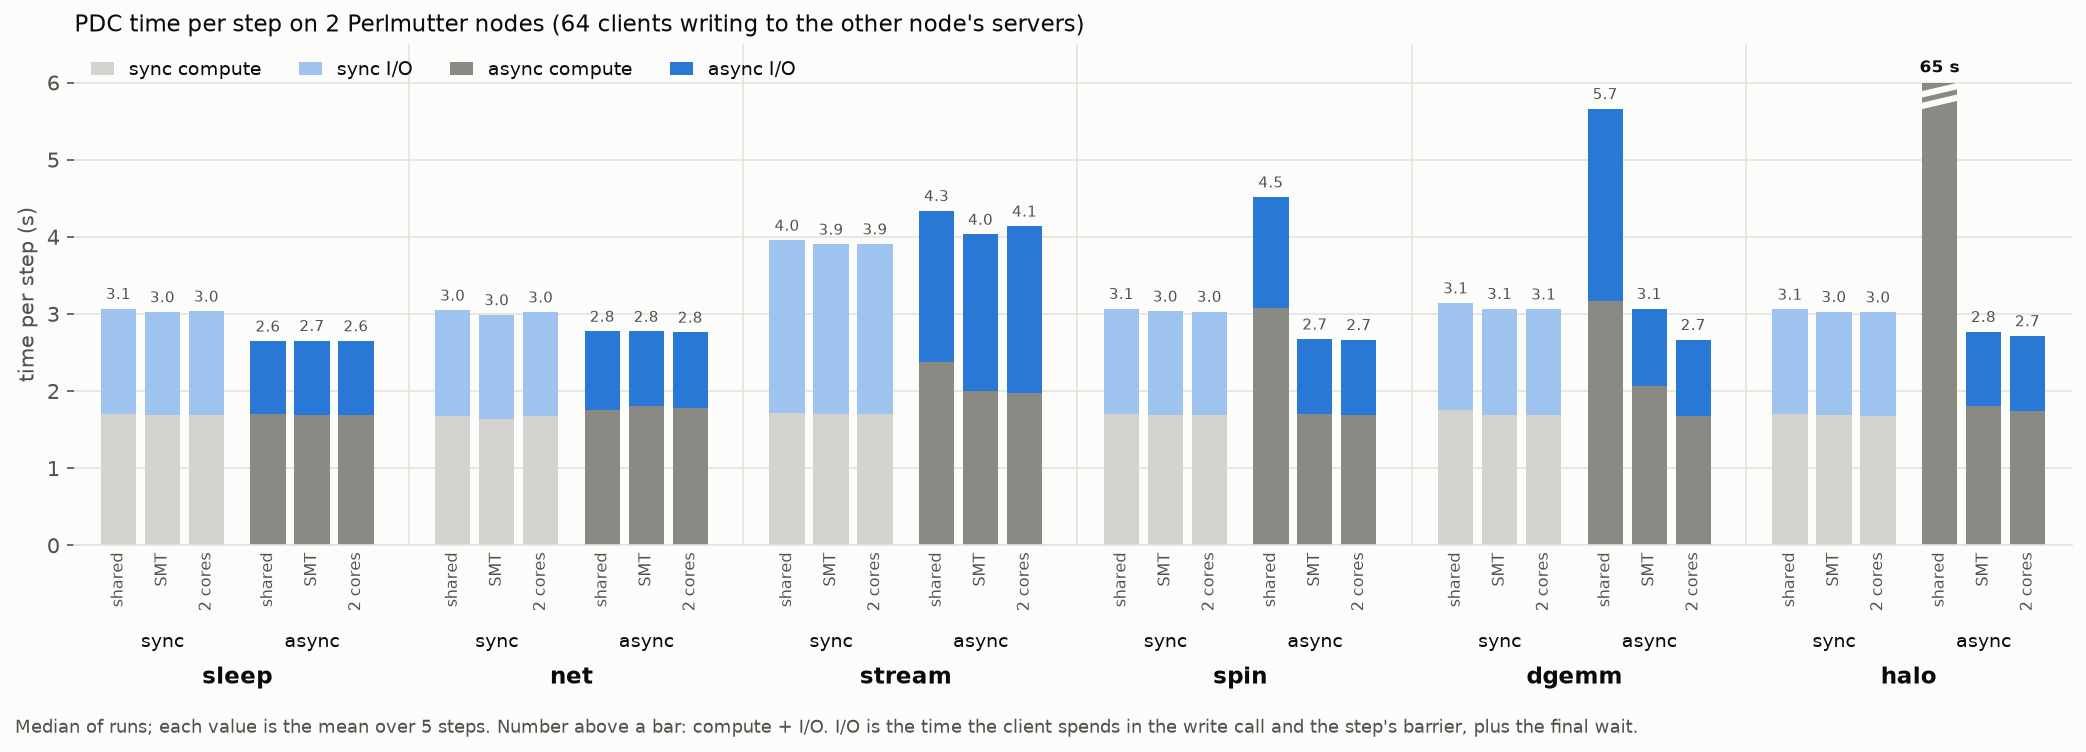
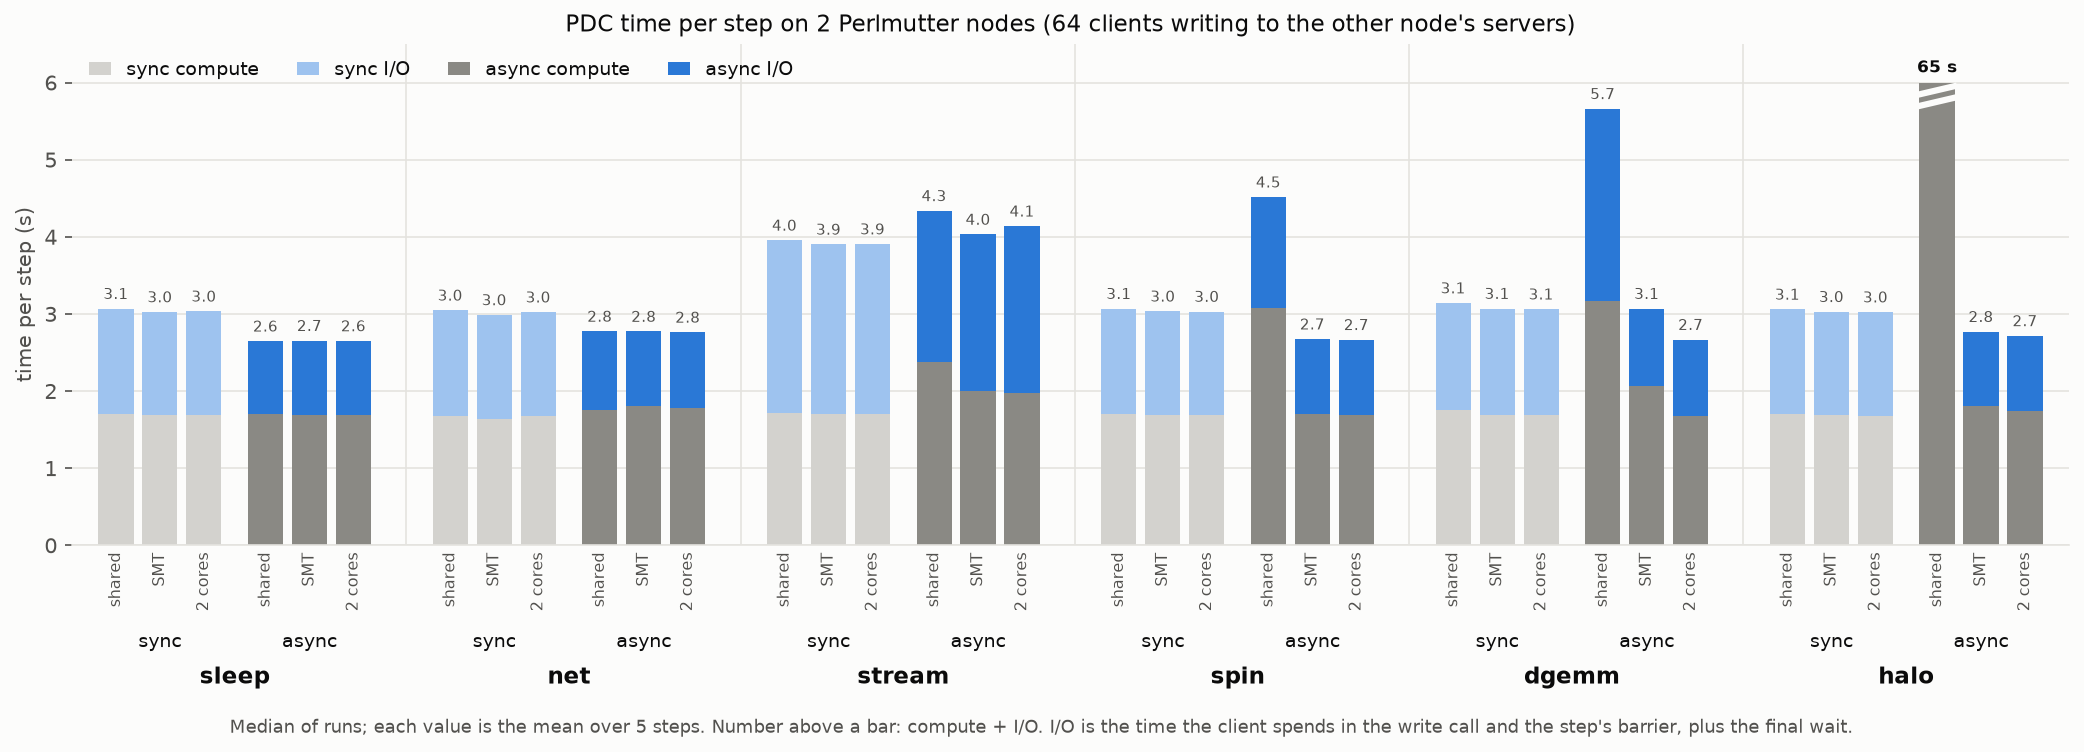
Center step breakdown title and caption

diff --git a/analysis/perlmutter/plots.py b/analysis/perlmutter/plots.py
@@ -305,9 +305,9 @@ for labels, pos, pad, size, weight in ((ml, mt, 42, 9, "normal"),
     sec.spines["bottom"].set_visible(False)
 ax.legend(loc="upper left", fontsize=9, ncol=4, handlelength=1.2)
 ax.set_title("PDC time per step on 2 Perlmutter nodes (64 clients writing to the other node's servers)",
-             loc="left", fontsize=11)
+             loc="center", fontsize=11)
 fig.tight_layout()
-fig.text(0.01, -0.01, "Median of runs; each value is the mean over 5 steps. Number above a bar: compute + I/O. "
+fig.text(0.5, -0.01, "Median of runs; each value is the mean over 5 steps. Number above a bar: compute + I/O. "
          "I/O is the time the client spends in the write call and the step's barrier, plus the final wait.",
-         ha="left", va="top", fontsize=8.5, color=INK2)
+         ha="center", va="top", fontsize=8.5, color=INK2)
 save(fig, "7_step_breakdown.png")
